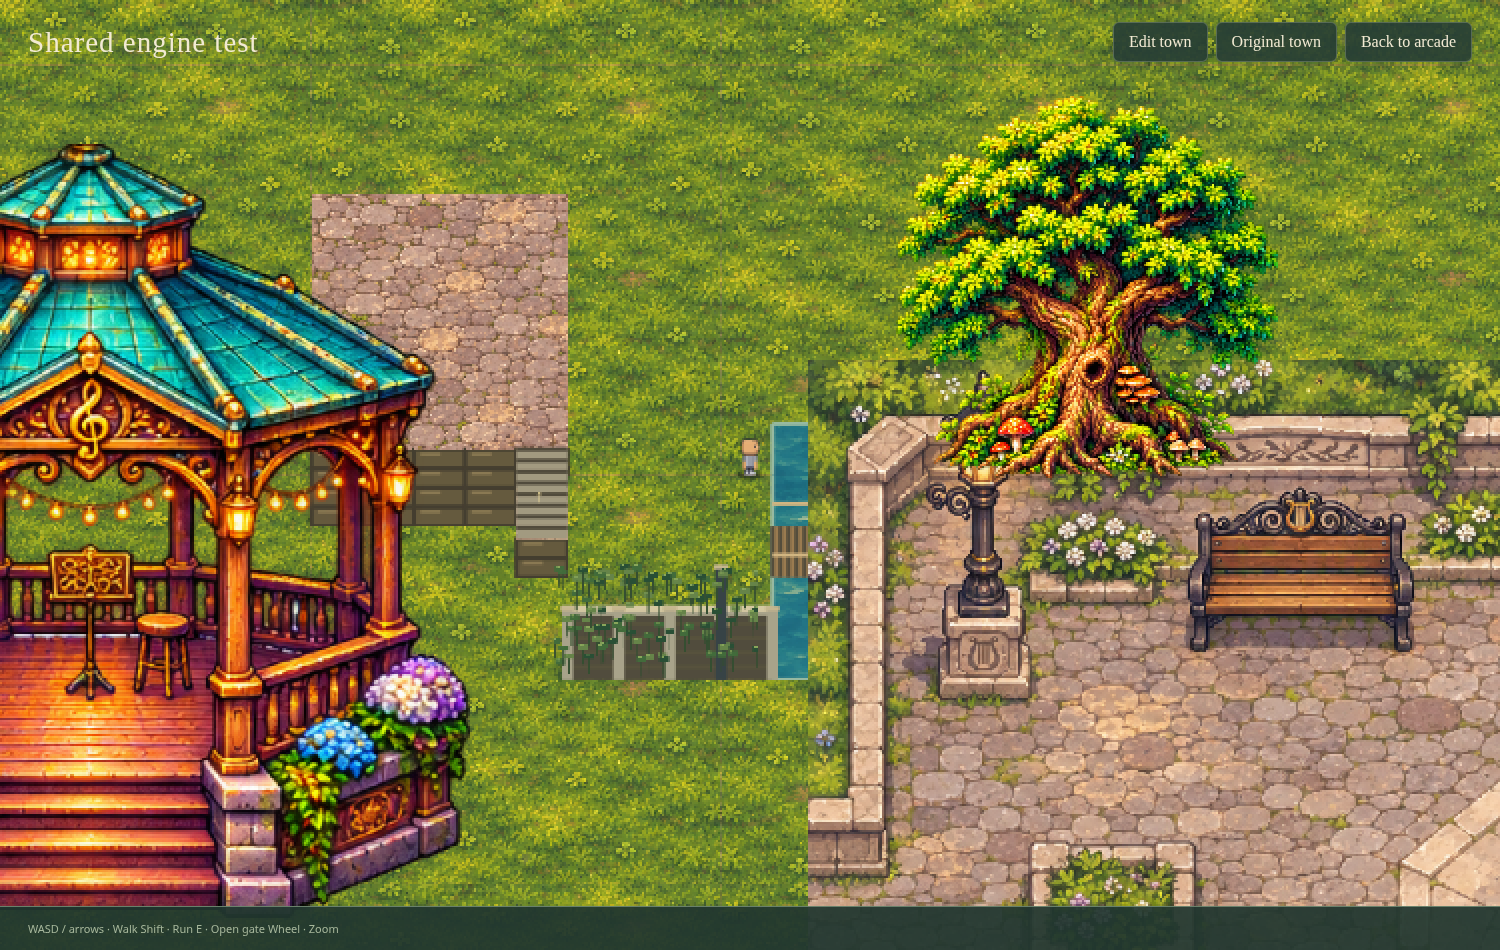
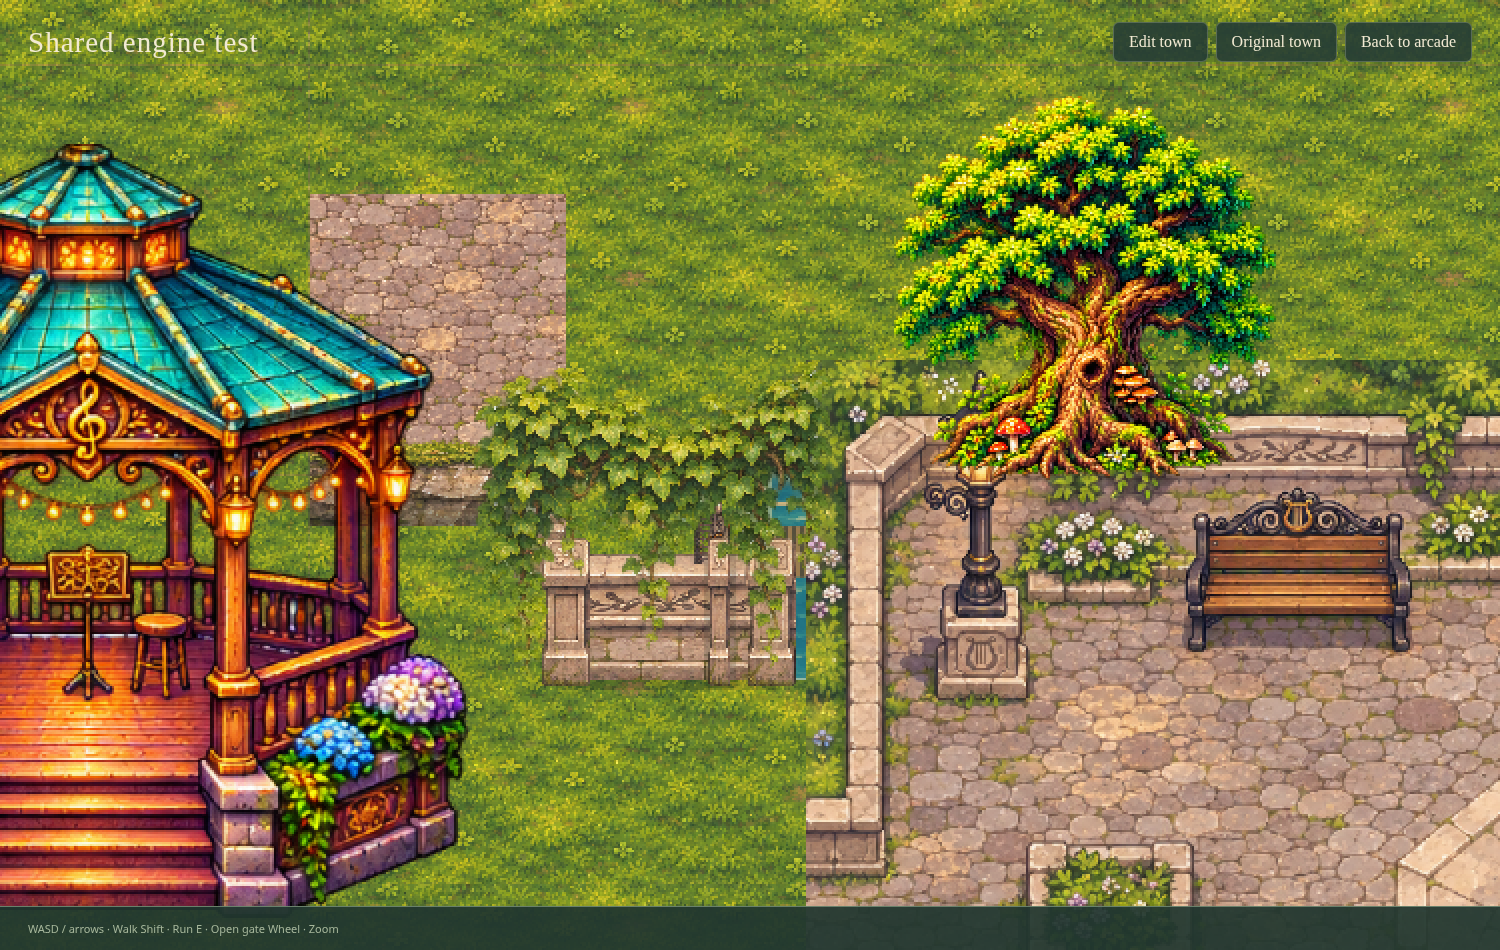
Match town construction to Music Square and add detailed home estates

diff --git a/town/builder/index.html b/town/builder/index.html
@@ -1,3 +1,3 @@
-<!doctype html><html lang="en"><head><meta charset="utf-8"><meta name="viewport" content="width=device-width,initial-scale=1"><title>Coda Town · Builder</title><link rel="stylesheet" href="builder.css"></head><body>
+<!doctype html><html lang="en"><head><meta charset="utf-8"><meta name="viewport" content="width=device-width,initial-scale=1"><title>Coda Town · Builder</title><link rel="stylesheet" href="builder.css?v=estate-detail-1"></head><body>
 <header><a href="../">❧ Coda Town</a><input id="name" value="My Coda Town" aria-label="Town name" maxlength="100"><button id="new">New grass map</button><button id="open">Open</button><button id="save">Save project</button><button id="pack">Asset pack ↓</button><button id="undo">Undo</button><button id="redo">Redo</button><button id="walk">Walk test</button><button id="play">Play this town ↗</button><button id="fit">Full map</button></header>
-<main><aside><h1>Town workshop</h1><p>Build your own musical valley.</p><div id="tools"></div><h2>Asset library</h2><input id="search" placeholder="Search trees, houses, gazebo…" aria-label="Search assets"><select id="category" aria-label="Asset category"><option value="">All assets</option></select><div id="library"></div></aside><section id="viewport"><canvas id="map" tabindex="0" aria-label="Town building canvas"></canvas><div id="hint">Drag to paint · right drag to pan · wheel to zoom</div><div id="status" role="status">Loading artwork…</div></section><aside id="inspector"><h2>Land selection</h2><p id="regionInfo">Choose Select land, then drag a rectangle.</p><button id="raiseRegion" disabled>Raise selected land +1</button><button id="lowerRegion" disabled>Lower selected land −1</button><button id="clearRegion" disabled>Clear selection</button><h2>Build settings</h2><label>Ground<select id="surface"></select></label><label>Brush width <input id="brush" type="number" min="1" max="15" value="3"></label><label>Terrain level <input id="level" type="number" min="0" max="8" value="1"></label><label>Stair ascent<select id="direction"></select></label><label>Steps / bridge finish<select id="finish"><option>stone</option><option>wood</option><option>brick</option></select></label><label>Bridge direction<select id="bridge"><option value="ns">North–south</option><option value="ew">East–west</option></select></label><label>Fence / wall<select id="barrier"></select></label><h2 id="assetName">Choose an asset</h2><label>Size<input id="scale" type="number" min=".25" max="3" step=".25" value="1"></label><label>Rotation<select id="rotation"><option>0</option><option>90</option><option>180</option><option>270</option></select></label><label>Layer<select id="layer"><option>objects</option><option>overgrowth</option><option>ground</option></select></label><label><input id="collision" type="checkbox" checked> Asset collision</label><button id="duplicate">Duplicate selected</button><button id="delete">Delete selected</button><label><input id="grid" type="checkbox"> Grid</label><label><input id="showCollision" type="checkbox"> Show collision</label><p>Raised ground blocks walking at cliff edges. Steps climb one level toward the arrow. Water blocks walking; bridges cross it. E opens gates during walk test.</p><p>Fences snap to cell edges. Drag an L to join corners. Foliage uses the overgrowth layer.</p><p>Projects autosave in this browser. Save a project file for a portable backup.</p></aside></main><input id="file" type="file" accept=".json" hidden><script src="../../character-renderer.js"></script><script type="module" src="app.mjs?v=land-selection-1"></script></body></html>
+<main><aside><h1>Town workshop</h1><p>Build your own musical valley.</p><div id="tools"></div><h2>Asset library</h2><input id="search" placeholder="Search trees, houses, gazebo…" aria-label="Search assets"><select id="category" aria-label="Asset category"><option value="">All assets</option></select><div id="library"></div></aside><section id="viewport"><canvas id="map" tabindex="0" aria-label="Town building canvas"></canvas><div id="mapTools"><button id="selectLand">Select land region</button><button id="selectAllLand">Select whole map</button><label>View <select id="heightView"><option value="art">Artwork</option><option value="colors">Height colors</option><option value="plan">Elevation plan</option></select></label><span id="hoverLevel">Level 0</span></div><div id="heightLegend" hidden><b>Ground levels</b><div id="levelSwatches"></div><small>Lines mark height changes · arrows mark stairs</small></div><div id="hint">Drag to paint · right drag to pan · wheel to zoom</div><div id="status" role="status">Loading artwork…</div></section><aside id="inspector"><h2>Land selection</h2><p id="regionInfo">Drag a land rectangle in any view. Use Full map for large regions.</p><button id="raiseRegion" disabled>Raise selected land +1</button><button id="lowerRegion" disabled>Lower selected land −1</button><button id="clearRegion" disabled>Clear selection</button><h2>Build settings</h2><label>Ground<select id="surface"></select></label><label>Brush width <input id="brush" type="number" min="1" max="15" value="3"></label><label>Terrain level <input id="level" type="number" min="0" max="8" value="1"></label><label>Stair ascent<select id="direction"></select></label><label>Steps / bridge finish<select id="finish"><option>stone</option><option>wood</option><option>brick</option></select></label><label>Bridge direction<select id="bridge"><option value="ns">North–south</option><option value="ew">East–west</option></select></label><label>Fence / wall<select id="barrier"></select></label><h2 id="assetName">Choose an asset</h2><label>Size<input id="scale" type="number" min=".25" max="3" step=".25" value="1"></label><label>Rotation<select id="rotation"><option>0</option><option>90</option><option>180</option><option>270</option></select></label><label>Layer<select id="layer"><option>objects</option><option>overgrowth</option><option>ground</option></select></label><label><input id="collision" type="checkbox" checked> Asset collision</label><button id="duplicate">Duplicate selected</button><button id="delete">Delete selected</button><label><input id="grid" type="checkbox"> Grid</label><label><input id="showCollision" type="checkbox"> Show collision</label><p>Raised ground blocks walking at cliff edges. Steps climb one level toward the arrow. Water blocks walking; bridges cross it. E opens gates during walk test.</p><p>Fences snap to cell edges. Drag an L to join corners. Foliage uses the overgrowth layer.</p><p>Projects autosave in this browser. Save a project file for a portable backup.</p></aside></main><input id="file" type="file" accept=".json" hidden><script src="../../character-renderer.js"></script><script type="module" src="app.mjs?v=estate-detail-1"></script></body></html>

diff --git a/town/builder/builder.css b/town/builder/builder.css
@@ -1,1 +1,3 @@
 *{box-sizing:border-box}body{margin:0;background:#172921;color:#e4dfc9;font:13px system-ui}header{height:58px;display:flex;align-items:center;gap:7px;padding:10px;background:#23372d;border-bottom:1px solid #57705b}a{color:#e9c982;text-decoration:none;white-space:nowrap}button,input,select{font:inherit;color:inherit;background:#30483a;border:1px solid #60775f;border-radius:5px;padding:7px}button{cursor:pointer}button:hover,button.active{background:#6b784a;color:white;border-color:#d3b971}header input{width:170px}main{display:grid;grid-template-columns:245px 1fr 215px;height:calc(100vh - 58px)}aside{padding:14px;overflow:auto;background:#203329}h1{font:22px Georgia;margin:0}h2{font:17px Georgia;color:#e9c982;margin:18px 0 10px}p{color:#abbcac;line-height:1.5}#tools{display:grid;grid-template-columns:1fr 1fr;gap:5px}#search,#category{width:100%;margin:4px 0}#library{display:grid;grid-template-columns:1fr 1fr;gap:6px;margin-top:10px}.asset{font-size:11px;padding:5px;min-height:110px}.asset canvas{display:block;width:88px;height:75px;object-fit:contain;image-rendering:pixelated;margin:auto}#viewport{position:relative;overflow:hidden}#map{display:block;width:100%;height:100%;image-rendering:pixelated;touch-action:none}#hint,#status{position:absolute;left:12px;padding:7px 12px;background:#17291fe8;border-radius:5px;pointer-events:none}#hint{top:12px}#status{bottom:12px}label{display:block;margin:10px 0;color:#c6d0be}label select,label input:not([type=checkbox]){display:block;width:100%;margin-top:5px}#inspector button{margin:3px 0;width:100%}@media(max-width:1000px){main{grid-template-columns:190px 1fr 175px}header{overflow:auto}.asset canvas{width:62px}aside{padding:9px}}
+
+#mapTools{position:absolute;left:12px;top:49px;display:flex;align-items:center;gap:6px;flex-wrap:wrap;max-width:calc(100% - 24px);padding:7px;background:#17291fed;border:1px solid #6b805d;border-radius:6px}#mapTools label{display:flex;align-items:center;gap:5px;margin:0}#mapTools select{width:auto;margin:0}#mapTools button:first-child{border-color:#d5bd7c;color:#ffe3a2}#hoverLevel{color:#d5dfc5;padding:0 5px}#heightLegend{position:absolute;right:12px;bottom:52px;padding:12px;background:#17291ff2;border:1px solid #9aab7d;border-radius:6px;max-width:280px}#levelSwatches{display:flex;gap:3px;margin:9px 0}#levelSwatches span{width:24px;height:28px;text-align:center;padding:5px 0;color:white;text-shadow:0 1px 2px #000}#heightLegend small{font-size:10px;color:#c8d4be}header{overflow-x:auto;white-space:nowrap;flex-shrink:0}header>*{flex-shrink:0}button:disabled{opacity:.45;cursor:default}

diff --git a/town/index.html b/town/index.html
@@ -7,4 +7,4 @@
 <div id="touch"><div class="dpad"><button data-key="ArrowUp" aria-label="Walk north">↑</button><button data-key="ArrowLeft" aria-label="Walk west">←</button><button data-key="ArrowDown" aria-label="Walk south">↓</button><button data-key="ArrowRight" aria-label="Walk east">→</button></div><button id="touchAction" disabled>Interact</button></div>
 <dialog id="mapDialog"><div class="dialog-head"><div><small>FIND YOUR OWN WAY</small><h2>Around the valley</h2></div><button data-close aria-label="Close map">✕</button></div><p>Follow the straight streets, find the stone stairways, and explore the raised neighborhoods. Homes range from cottages to large courtyard houses.</p><canvas id="mapCanvas" width="960" height="720" aria-label="Town map with homes, paths, river, and current position"></canvas><div id="directory"></div></dialog>
 <dialog id="story"><div class="dialog-head"><h2 id="storyTitle"></h2><button data-close aria-label="Close conversation">✕</button></div><p id="storyText"></p><div id="storyActions"></div></dialog>
-<script src="../npc-visitors.js"></script><script src="../character-renderer.js"></script><script type="module" src="boot.mjs"></script></body></html>
+<script src="../npc-visitors.js"></script><script src="../character-renderer.js"></script><script type="module" src="boot.mjs?v=estate-detail-1"></script></body></html>

diff --git a/town/builder/details-browser.py b/town/builder/details-browser.py
@@ -1,0 +1,54 @@
+"""Actual rendered art review and functional elevation/large-selection checks."""
+from functools import partial
+from http.server import SimpleHTTPRequestHandler,ThreadingHTTPServer
+from pathlib import Path
+import threading,json
+from playwright.sync_api import sync_playwright
+ROOT=Path(__file__).resolve().parents[2]
+class Quiet(SimpleHTTPRequestHandler):
+ def log_message(self,*args):pass
+server=ThreadingHTTPServer(('127.0.0.1',0),partial(Quiet,directory=str(ROOT)))
+threading.Thread(target=server.serve_forever,daemon=True).start()
+d={'version':1,'name':'Terrace workshop','spawn':{'x':8192,'y':6528},'cells':{},'edges':{},'objects':[]}
+for x in range(114,134):
+ for y in range(89,100):d['cells'][f'{x},{y}']={'surface':'grass','level':3}
+for x in range(117,132):
+ for y in range(100,104):d['cells'][f'{x},{y}']={'surface':'grass','level':2}
+for x in range(119,130):
+ for y in range(104,108):d['cells'][f'{x},{y}']={'surface':'grass','level':1}
+for y,level in [(100,2),(104,1),(108,0)]:
+ for x in range(123,128):d['cells'][f'{x},{y}']={'surface':'cobble','level':level,'stairs':'north','finish':'stone'}
+for x in range(118,131):d['edges'][f'h:{x}:94']={'style':'limestone','gate':False,'open':False}
+for y in range(94,99):d['edges'][f'v:118:{y}']={'style':'limestone','gate':False,'open':False}
+for x in range(130,139):d['edges'][f'h:{x}:107']={'style':'wood','gate':False,'open':False}
+for i,asset in enumerate(['ivy-0','ivy-1','ivy-2']):d['objects'].append({'id':str(i),'asset':asset,'x':(121+i*3)*64,'y':94*64,'scale':1,'rotation':0,'collision':False,'layer':'overgrowth'})
+with sync_playwright() as p:
+ b=p.chromium.launch(executable_path='/usr/bin/chromium',args=['--no-sandbox']);page=b.new_page(viewport={'width':1600,'height':1050});errors=[];page.on('pageerror',lambda e:errors.append(str(e)))
+ page.goto(f'http://127.0.0.1:{server.server_port}/town/builder/');page.wait_for_function('!!window.townBuilder')
+ assert page.evaluate('[...townBuilder.catalog.keys()].filter(k=>k.startsWith("estate-")).length')==19
+ page.locator('#file').set_input_files({'name':'terraces.json','mimeType':'application/json','buffer':json.dumps(d).encode()});page.wait_for_function('townBuilder.project.name==="Terrace workshop"')
+ page.evaluate('Object.assign(townBuilder.cam,{x:8064,y:6200,zoom:.65})');page.wait_for_timeout(250)
+ page.screenshot(path=str(ROOT/'docs/town-preview/terraces-detail.png'))
+ page.locator('#heightView').select_option('plan');assert page.locator('#heightLegend').is_visible()
+ page.locator('#selectLand').click();box=page.locator('#map').bounding_box();x=box['x']+box['width']/2;y=box['y']+box['height']/2
+ page.mouse.move(x-150,y-100);page.mouse.down();page.mouse.move(x+150,y+100,steps=10);page.mouse.up();assert page.evaluate('townBuilder.region!==null')
+ page.locator('#raiseRegion').click();page.locator('#undo').click()
+ page.screenshot(path=str(ROOT/'docs/town-preview/elevation-plan.png'))
+ page.locator('#selectAllLand').click();assert page.evaluate('(townBuilder.region.x1+1)*(townBuilder.region.y1+1)')==49152
+ page.locator('#lowerRegion').click();assert page.evaluate('Math.max(...Object.values(townBuilder.project.cells).map(c=>c.level))')==2
+ page.locator('#undo').click();assert page.evaluate('Math.max(...Object.values(townBuilder.project.cells).map(c=>c.level))')==3
+ page.locator('#clearRegion').click();page.locator('#heightView').select_option('art')
+ # Check complete property assets in actual shared renderer, not concept images.
+ d['name']='Your library garden';d['cells']={};d['edges']={};d['objects']=[{'id':'home','asset':'estate-player','x':8192,'y':7168,'scale':1,'rotation':0,'collision':True,'layer':'ground'}]
+ page.locator('#file').set_input_files({'name':'home.json','mimeType':'application/json','buffer':json.dumps(d).encode()});page.wait_for_function('townBuilder.project.name==="Your library garden"')
+ page.evaluate('Object.assign(townBuilder.cam,{x:8192,y:6144,zoom:.4})');page.locator('#category').select_option('home estates');page.wait_for_timeout(300)
+ page.screenshot(path=str(ROOT/'docs/town-preview/home-estate.png'))
+ # Authored parcel collision keeps the yard open and the house solid.
+ assert page.evaluate('''async()=>{const {blocked}=await import('/town/world/model.mjs');const d=townBuilder.project,c=townBuilder.catalog;return !blocked(d,8192,7000,c)&&blocked(d,8192,5900,c);}''')
+ # Render the complete library as an actual browser asset sheet for review.
+ page.evaluate('''()=>{const grid=document.createElement('div');grid.id='estateGallery';grid.style.cssText='position:absolute;left:0;top:0;width:1600px;display:grid;grid-template-columns:repeat(4,400px);background:#20382b;z-index:9999';for(const a of townBuilder.catalog.values()){if(!a.id.startsWith('estate-'))continue;const tile=document.createElement('div');tile.style.cssText='padding:12px;color:#f1dfb9;text-align:center;font:16px Georgia';const c=document.createElement('canvas');c.width=c.height=376;const g=c.getContext('2d');g.scale(376/a.w,376/a.h);a.draw(g);tile.append(c,document.createTextNode(a.name));grid.append(tile);}document.body.append(grid);}''')
+ page.locator('#estateGallery').screenshot(path=str(ROOT/'docs/town-preview/home-estates-library.png'))
+ page.evaluate("const g=document.querySelector('#estateGallery');g.style.width='800px';g.style.gridTemplateColumns='repeat(4,200px)';for(const c of g.querySelectorAll('canvas')){c.style.width='176px';c.style.height='176px';}")
+ page.locator('#estateGallery').screenshot(path='/tmp/coda-estate-review.png')
+ assert not errors,errors;b.close()
+server.shutdown();print('Detail checks passed: 19 estates, connected art, elevation plan, region and whole-map heights, undo, and parcel collision.')

diff --git a/town/builder/README.md b/town/builder/README.md
@@ -17,3 +17,19 @@ The editor and playable authored maps both use `town/world/` for the asset catal
 Additional validation: `node --test town/world/physics.test.mjs`; `python3 town/world/browser.py`.
 
 Use **Select land** and drag a rectangle to select terrain tiles. The Land selection panel shows the selected size. **Raise selected land +1** and **Lower selected land −1** change the whole selection by one level while preserving its surfaces and relative heights (within the 0–8 limits). Each click is one undoable action. **Clear selection** or Escape clears the highlight. Selection itself does not alter or save terrain.
+
+## Detailed construction and home estates
+
+The **home estates** category contains 19 complete home-and-yard scenes: every resident plus your own home. Each has its own full-resolution source artwork, garden, roof shape, porch, boundary planting and musical theme. These complete scenes use the ground layer like Music Square. Place them on level ground; their painted porch steps are part of the scene, while the terrain **Steps** tool creates climbable level connections. Houses and boundary walls have collision, with an open central yard entrance. Placed estate doors are not yet connected to NPC interiors or friendship invitations.
+
+Connected fence/wall tools now draw shared detailed panels and corner piers; adjacent stair cells form wider flights. Existing ivy/rose/wisteria/honeysuckle IDs now use dense painted foliage. Raised terrain uses a world-aligned mossy rock face and an overhanging grass crown rather than flat patterned blocks. Existing project IDs and terrain levels remain compatible. Music Square and the water artwork are unchanged.
+
+The canvas toolbar offers **Select land region**, **Select whole map**, and three views:
+
+- **Artwork** shows the shared game rendering.
+- **Height colors** overlays numbered levels and contour boundaries.
+- **Elevation plan** hides the scenery and projection so tiles, stairs, water crossings and height boundaries are easy to read and select. Its labels render sharply for planning.
+
+Region raise/lower works in all three views. Use Full map to select broad portions of the valley, then raise or lower them one level per click. Planning views are editor guides and are not saved into the map's appearance.
+
+Additional checks: `python3 town/builder/details-browser.py` validates the 19 estates, parcel collision, elevation views, large selections and whole-map height undo.

diff --git a/town/ART-DIRECTION.md b/town/ART-DIRECTION.md
@@ -52,3 +52,11 @@ Keep the approved Music Square intact and available as a complete placeable scen
 ### Editor/game parity
 
 All builder-authored maps must use `town/world/` in both the builder and playable town route (`?map=builder`). Keep one asset catalog, renderer, terrain/asset collision implementation, movement, gate interaction, and pixel scale. Editor guides may overlay the scene; they must not alter the underlying game artwork. Changes to shared graphics apply to both views. Preserve saved version-1 editor projects. The original handcrafted town is available separately while authored-map NPC interiors remain future work.
+
+### Detailed estate and construction pass
+
+User approved Music Square and water as the visual benchmark, and rejected the procedural stairs, walls, sparse vines, and flat cliff pattern. Construction must use the matching detailed painted kit (`construction-detail.png`), botanical overlays (`foliage-detail.png`) and continuous rock/grass cliff rendering, with shared piers at fence corners. Do not return to diagonal gate-like braces on every fence cell, flat strip stairs, or isolated rock decals stamped across cliff faces.
+
+There are 19 distinct full-resolution residential scenes (`home-estate-*.png`), one for every resident and the player, not enlarged atlas thumbnails. Each is a complete home and planted yard with a large roof footprint, musical details, deep porch, stairs, thick walls and an open entry. Keep the individual house pieces available as well. Preserve the approved Music Square and water source files. Estate scenes are visual parcels with house/wall collision; actual NPC door/interior binding remains a separate feature.
+
+Editor tools must include obvious regional selection and a numbered, color-coded elevation plan so large level changes can be understood before returning to the game artwork view. The plan is a guide, not a replacement art style.

diff --git a/docs/town-preview/README.md b/docs/town-preview/README.md
@@ -62,3 +62,14 @@ The builder starts with grass only and preserves the approved Music Square as a 
 Choose **Select land**, drag a rectangle, then **Raise selected land +1** or **Lower selected land −1**. Each action is undoable; Clear selection or Escape removes the highlight.
 
 ![Land selection in the builder](land-selection.png)
+
+## Detailed estates, terraces and elevation tools
+
+Actual browser captures of the updated shared game artwork:
+
+- [Full home-and-yard asset library — 19 properties](home-estates-library.png)
+- [Your home and garden at placement scale](home-estate.png)
+- [Detailed connected walls, stair flights, foliage and cliff faces](terraces-detail.png)
+- [Numbered elevation plan and large-area selection](elevation-plan.png)
+
+Open the **home estates** category to place whole properties. Use the canvas toolbar for **Select land region**, **Select whole map**, **Height colors**, or **Elevation plan**. Music Square and water retain their existing artwork.
